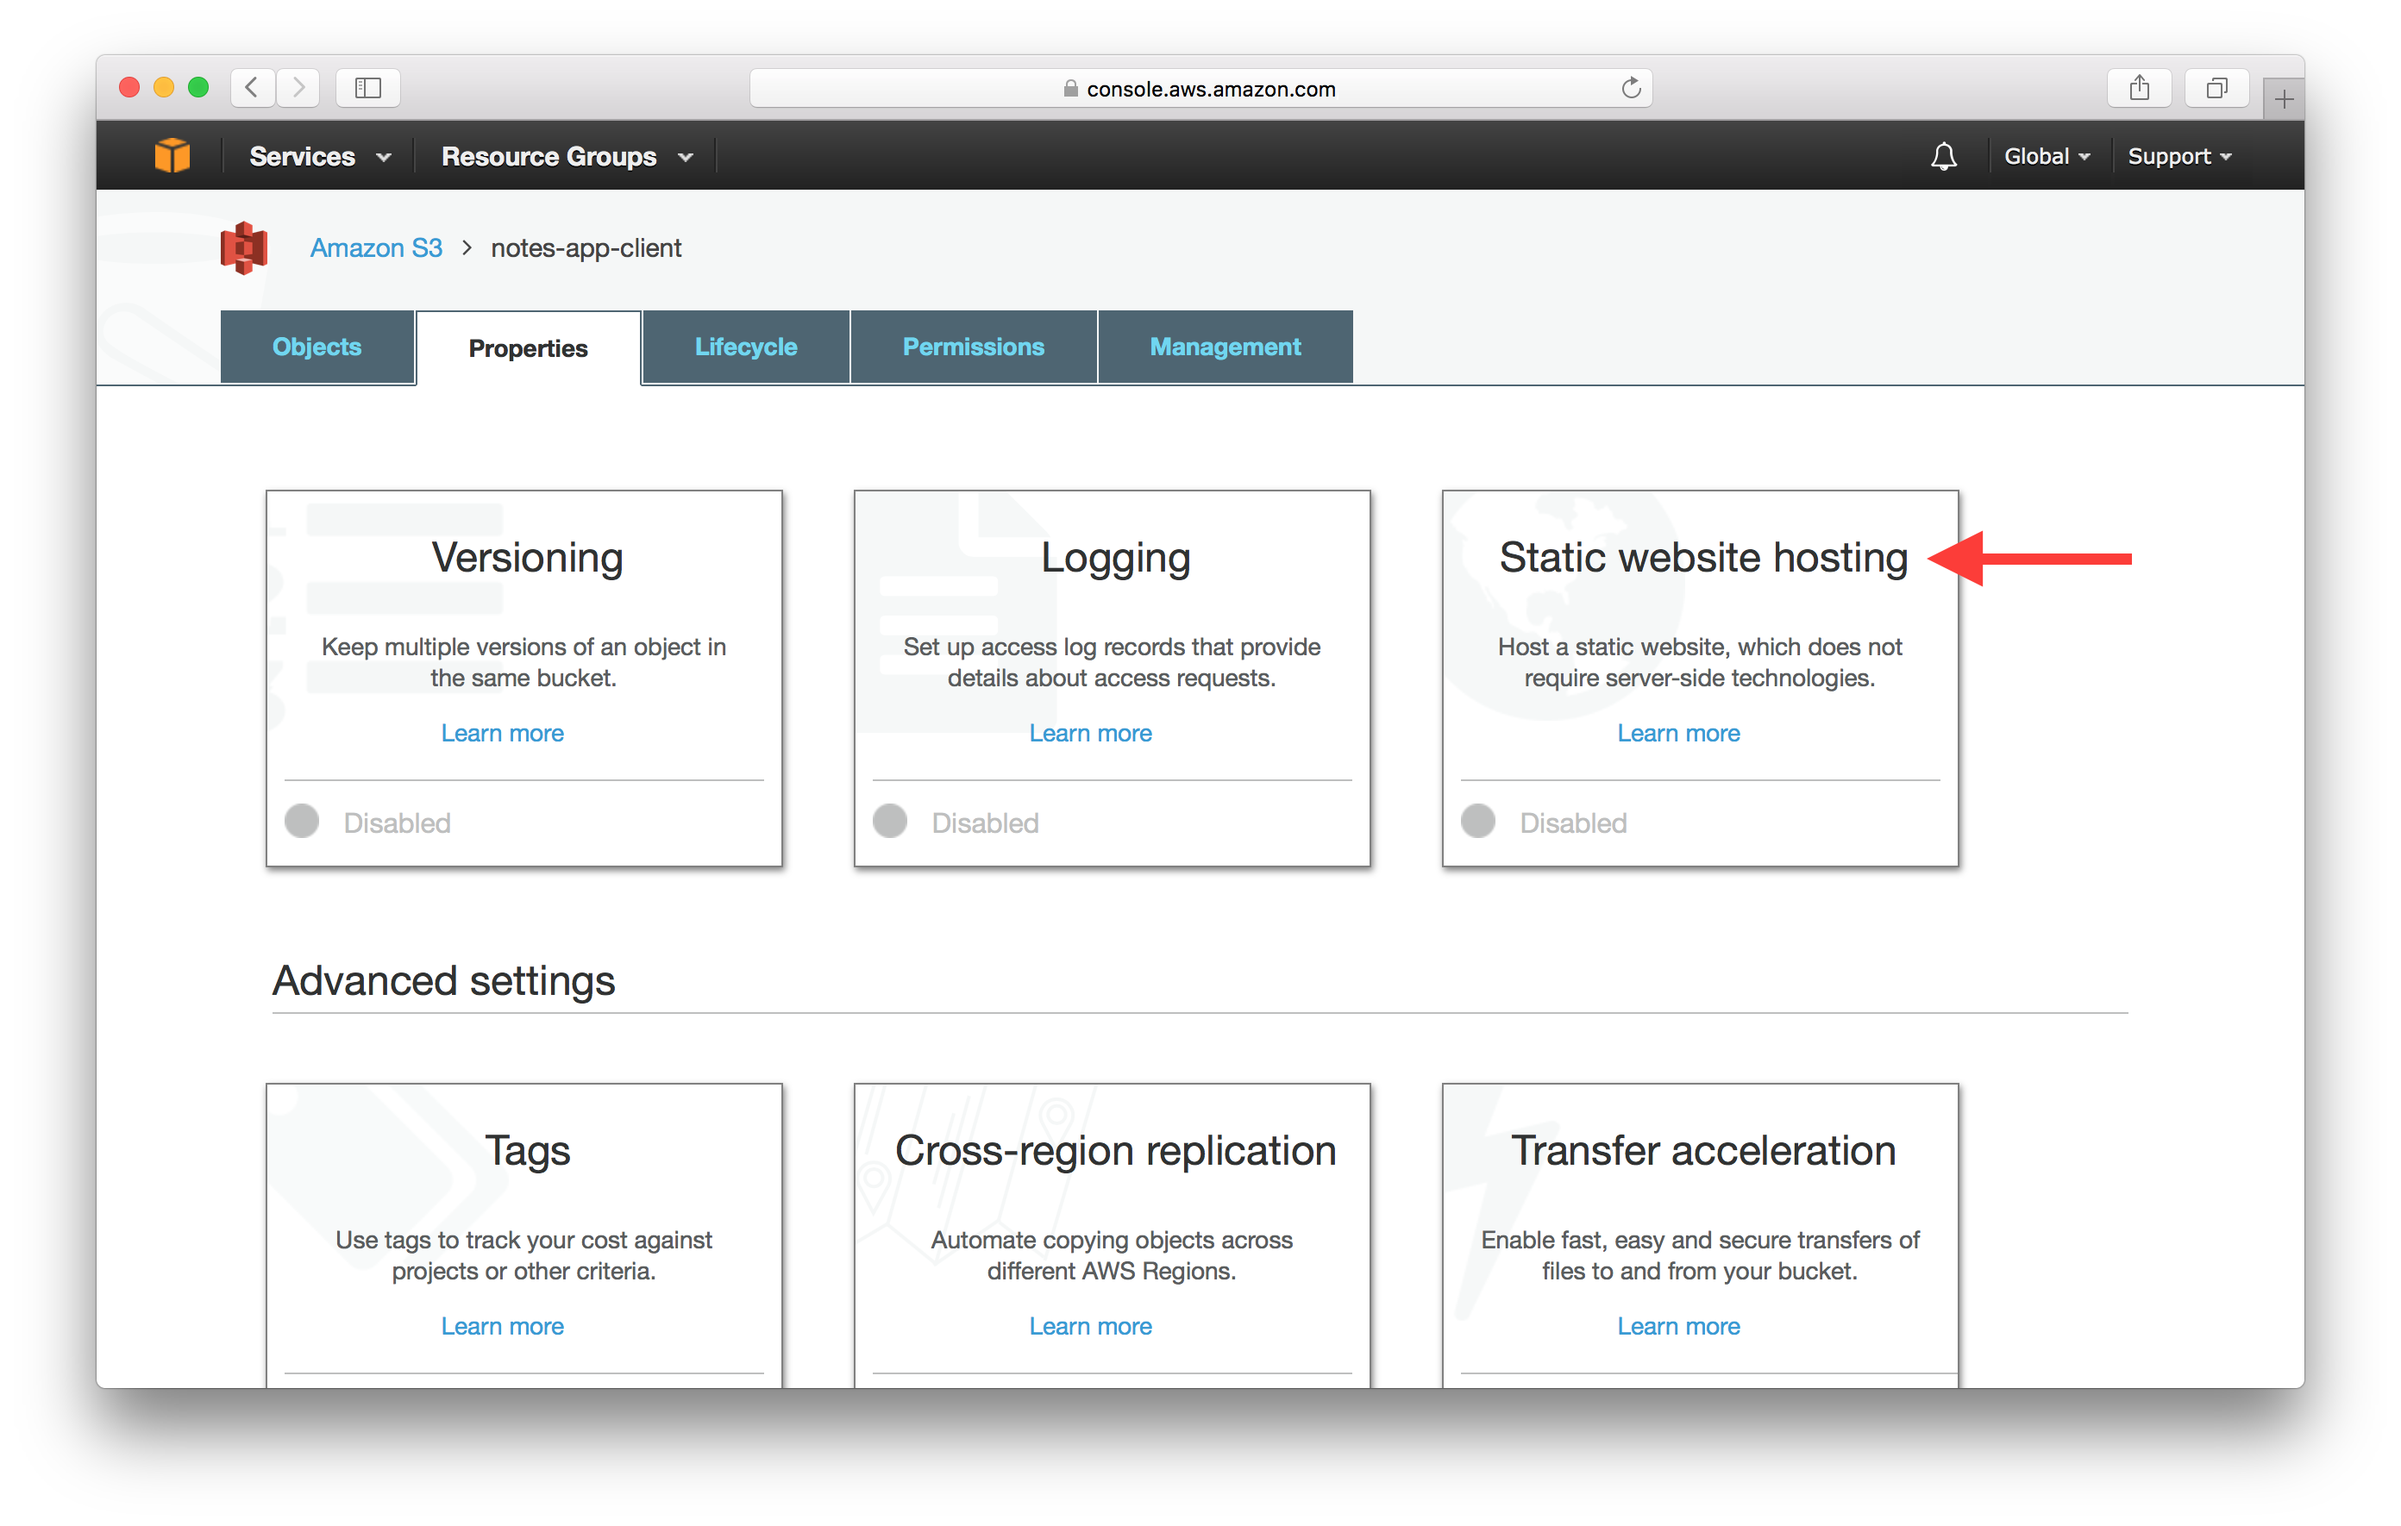
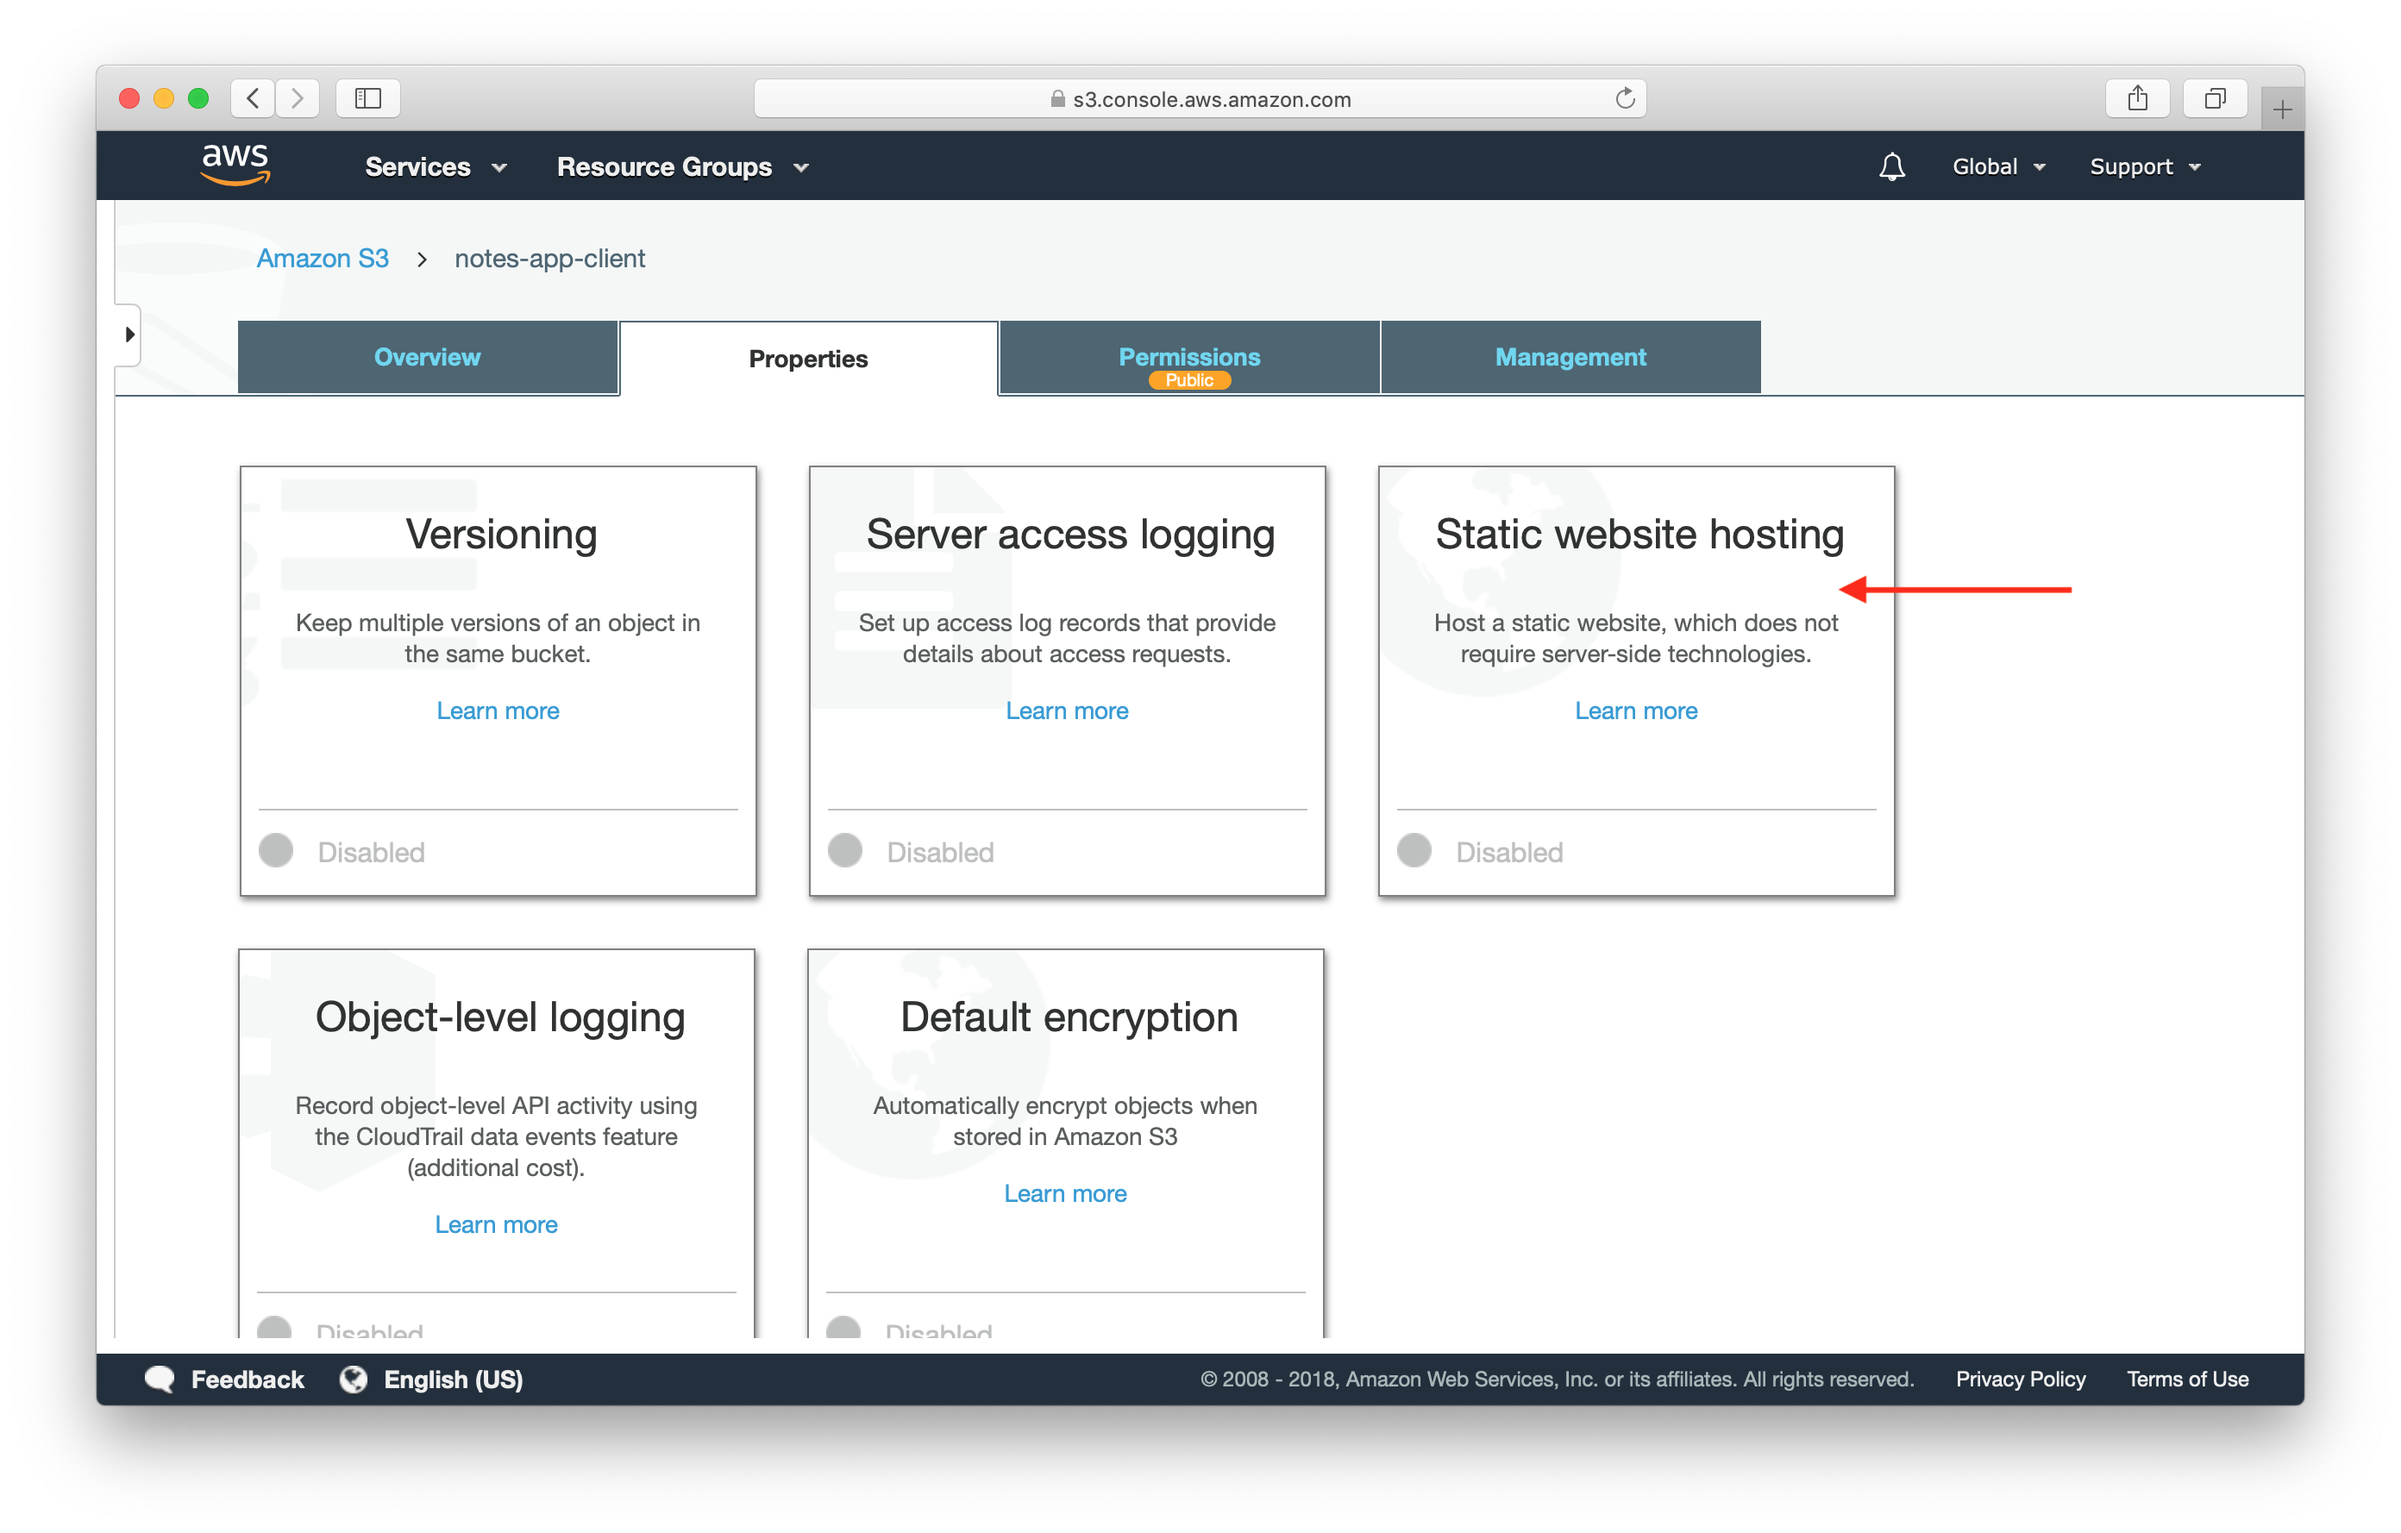
S3 update (#300)
* S3 uploads (#294)

*  Added styling to create drop shadows on images via anchor in image url

* Updated create S3 bucket process to reflect new default settings that prevent making a bucket public. I only later saw the guidelines around image creation, but have a look, as you may find these acceptable.
 as you may find these acceptable.

* Updating screenshots for S3 buckets

* Making copy changes

diff --git a/_sass/theme/_layout.scss b/_sass/theme/_layout.scss
@@ -51,12 +51,12 @@
     img {
       margin-right: 5px;
       display: inline-block;
-      vertical-align: middle; 
+      vertical-align: middle;
     }
 
     span {
       font-size: 26px;
-      vertical-align: middle; 
+      vertical-align: middle;
       font-weight: 700;
       color: $text-color;
     }
@@ -116,12 +116,12 @@
     img {
       margin-right: 5px;
       display: inline-block;
-      vertical-align: middle; 
+      vertical-align: middle;
     }
 
     span {
       font-size: 30px;
-      vertical-align: middle; 
+      vertical-align: middle;
       font-weight: 700;
       color: $text-color;
     }
@@ -450,7 +450,7 @@
 
     li {
       margin-top: 3px;
-      padding-left: 10px; 
+      padding-left: 10px;
       text-indent: -11px;
 
       &::before {

diff --git a/_chapters/create-an-s3-bucket.md b/_chapters/create-an-s3-bucket.md
@@ -20,15 +20,19 @@ First, log in to your [AWS Console](https://console.aws.amazon.com) and select S
 
 Select **Create Bucket** and pick a name for your application and select the **US East (N. Virginia) Region** Region. Since our application is being served out using a CDN, the region should not matter to us.
 
-![Create S3 static website Bucket screenshot](/assets/create-s3-bucket.png)
+![Create S3 static website Bucket screenshot](/assets/create-s3-bucket-1-name.png)
 
-Go through the next steps and leave the defaults by clicking **Next**.
+Click **Next** through the configure options step.
 
-![Create S3 static website Bucket next properties screenshot](/assets/create-s3-bucket-next-properties.png)
+![Create S3 static website Bucket next configure options screenshot](/assets/create-s3-bucket-2-configure-options.png)
 
-![Create S3 static website Bucket next permissions screenshot](/assets/create-s3-bucket-next-permissions.png)
+In the permissions step, make sure to uncheck **Block new public bucket policies** and **Block public and cross-account access if bucket has public policies**. Making buckets public is a common security error, but in our case we'll be serving our app from the bucket, so want it to be public.
 
-![Create S3 static website Bucket next review screenshot](/assets/create-s3-bucket-next-review.png)
+![Create S3 static website Bucket next permissions screenshot](/assets/create-s3-bucket-3-permissions.png)
+
+Click **Create bucket** on the review page to create the bucket.
+
+![Create S3 static website Bucket next review screenshot](/assets/create-s3-bucket-4-review.png)
 
 Now click on your newly created bucket from the list and navigate to its permissions panel by clicking **Permissions**.
 
@@ -66,7 +70,7 @@ And finally we need to turn our bucket into a static website. Select the **Prope
 
 ![Select properties tab screenshot](/assets/select-bucket-properties.png)
 
-Select **Static website hosting**. 
+Select **Static website hosting**.
 
 ![Select static website hosting screenshot](/assets/select-static-website-hosting.png)
 

diff --git a/_chapters/create-an-s3-bucket-for-file-uploads.md b/_chapters/create-an-s3-bucket-for-file-uploads.md
@@ -20,7 +20,7 @@ First, log in to your [AWS Console](https://console.aws.amazon.com) and select *
 
 ![Select S3 Service screenshot](/assets/s3/select-s3-service.png)
 
-Select **Create Bucket**.
+Select **Create bucket**.
 
 ![Select Create Bucket screenshot](/assets/s3/select-create-bucket.png)
 
@@ -33,7 +33,7 @@ Make a note of the name and region as we'll be using it later in the guide.
 
 ![Enter S3 Bucket Info screenshot](/assets/s3/enter-s3-bucket-info.png)
 
-Step through the next steps and leave the defaults by clicking **Next**, and then click **Create Bucket** on the last step.
+Step through the next steps and leave the defaults by clicking **Next**, and then click **Create bucket** on the last step.
 
 ![Set S3 Bucket Properties screenshot](/assets/s3/set-s3-bucket-properties.png)
 ![Set S3 Bucket Permissions screenshot](/assets/s3/set-s3-bucket-permissions.png)
